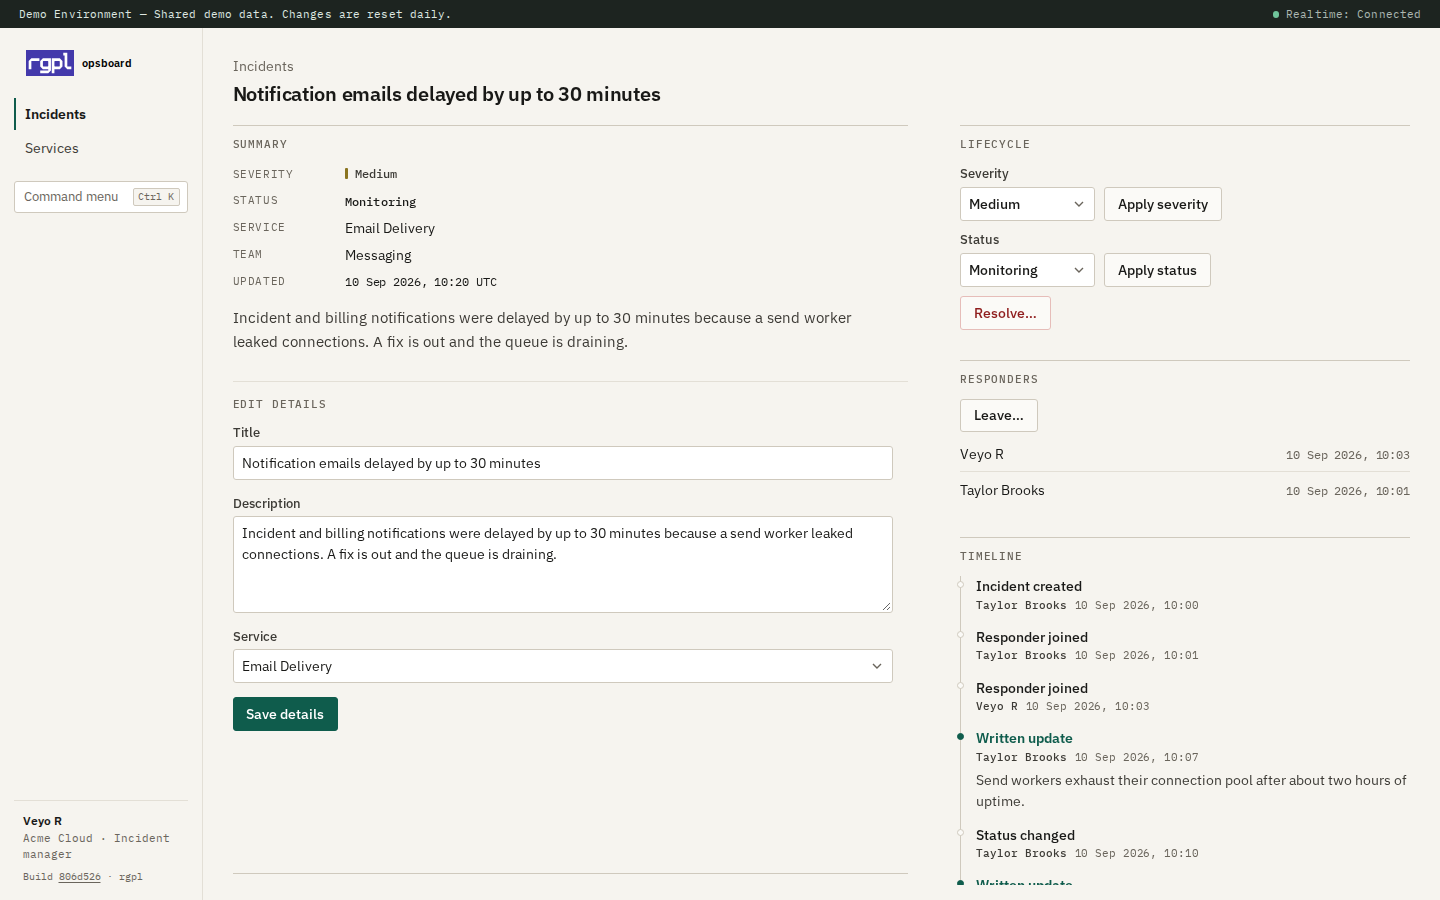
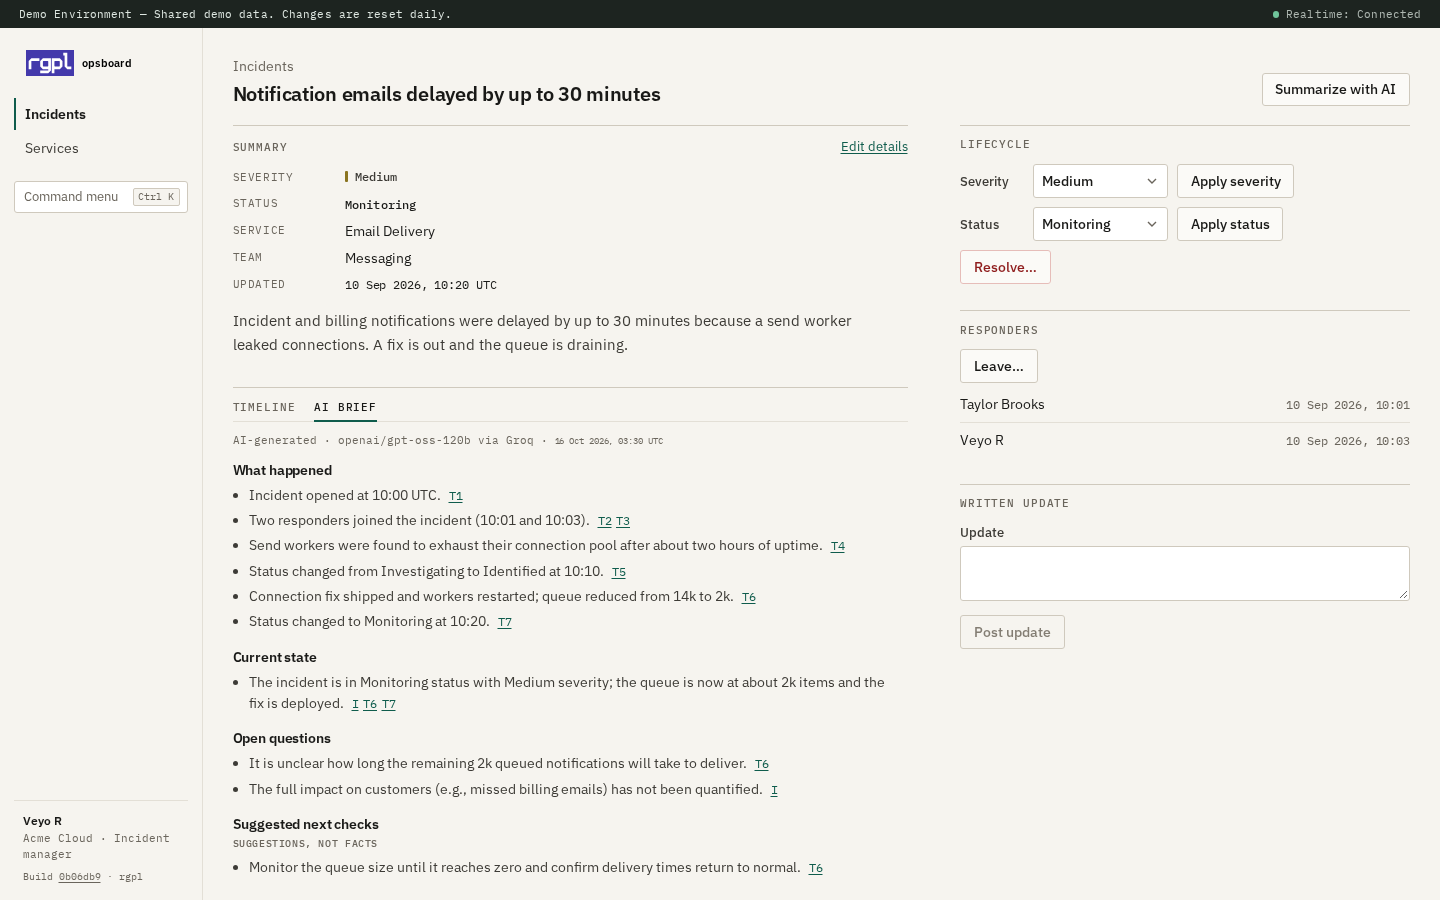
docs: refresh the README for the AI incident brief
The incident screenshot now shows a generated brief with its sources. Both screenshots were retaken from the live demo, so they show build 0b06db9. The description, an engineering decision on AI assistance and a roadmap row describe the feature.

diff --git a/README.md b/README.md
@@ -1,12 +1,12 @@
 # OpsBoard
 
-Real-time incident and service operations management platform. Portfolio application demonstrating senior Angular frontend engineering, ASP.NET Core API design, EF Core/PostgreSQL persistence, SignalR, testing, accessibility, and containerised delivery. Delivery status is in the [roadmap](#roadmap).
+Real-time incident and service operations management platform, with AI incident briefs that cite their sources. Portfolio application demonstrating senior Angular frontend engineering, ASP.NET Core API design, EF Core/PostgreSQL persistence, SignalR, testing, accessibility, and containerised delivery. Delivery status is in the [roadmap](#roadmap).
 
 ## Screenshots
 
 ![Incident list with filters, severity and status cues](docs/screenshots/incident-list.png)
 
-![Incident detail with lifecycle controls, responders and timeline](docs/screenshots/incident-detail.png)
+![Incident detail with an AI brief that cites its sources, lifecycle controls and responders](docs/screenshots/incident-detail.png)
 
 ## Live demo
 
@@ -205,6 +205,7 @@ The stack and the local development setup share the same PostgreSQL container an
 8. **Deterministic Acme demo seed** behind a Development-only `--seed-demo` command (not a public reset endpoint).
 9. **Schema changes as a separate step**: the API never migrates itself; a migration bundle ships in the API image.
 10. **Tool versions pinned in `mise.toml`** so every clone uses the same Node/.NET pair.
+11. **AI assistance that does not rely on the model behaving**: the server sends one incident the caller can already read, gives the model no tools, checks every citation against what it sent, and shows the reply as text. It is off unless configured ([AI assistance](docs/ai-assistance.md)).
 
 ## Roadmap
 
@@ -218,6 +219,7 @@ The stack and the local development setup share the same PostgreSQL container an
 | 6 | Command palette, deeper keyboard/a11y polish | Done |
 | 7 | Frontend/backend/integration/E2E/a11y test hardening | Done |
 | 8 | GitHub Actions, container images and stack, architecture docs / ADRs, deployment guidance | Done |
+| 9 | AI incident brief: cited sources checked by the server, per-visitor and daily limits, off by default | Done |
 
 ## License
 
